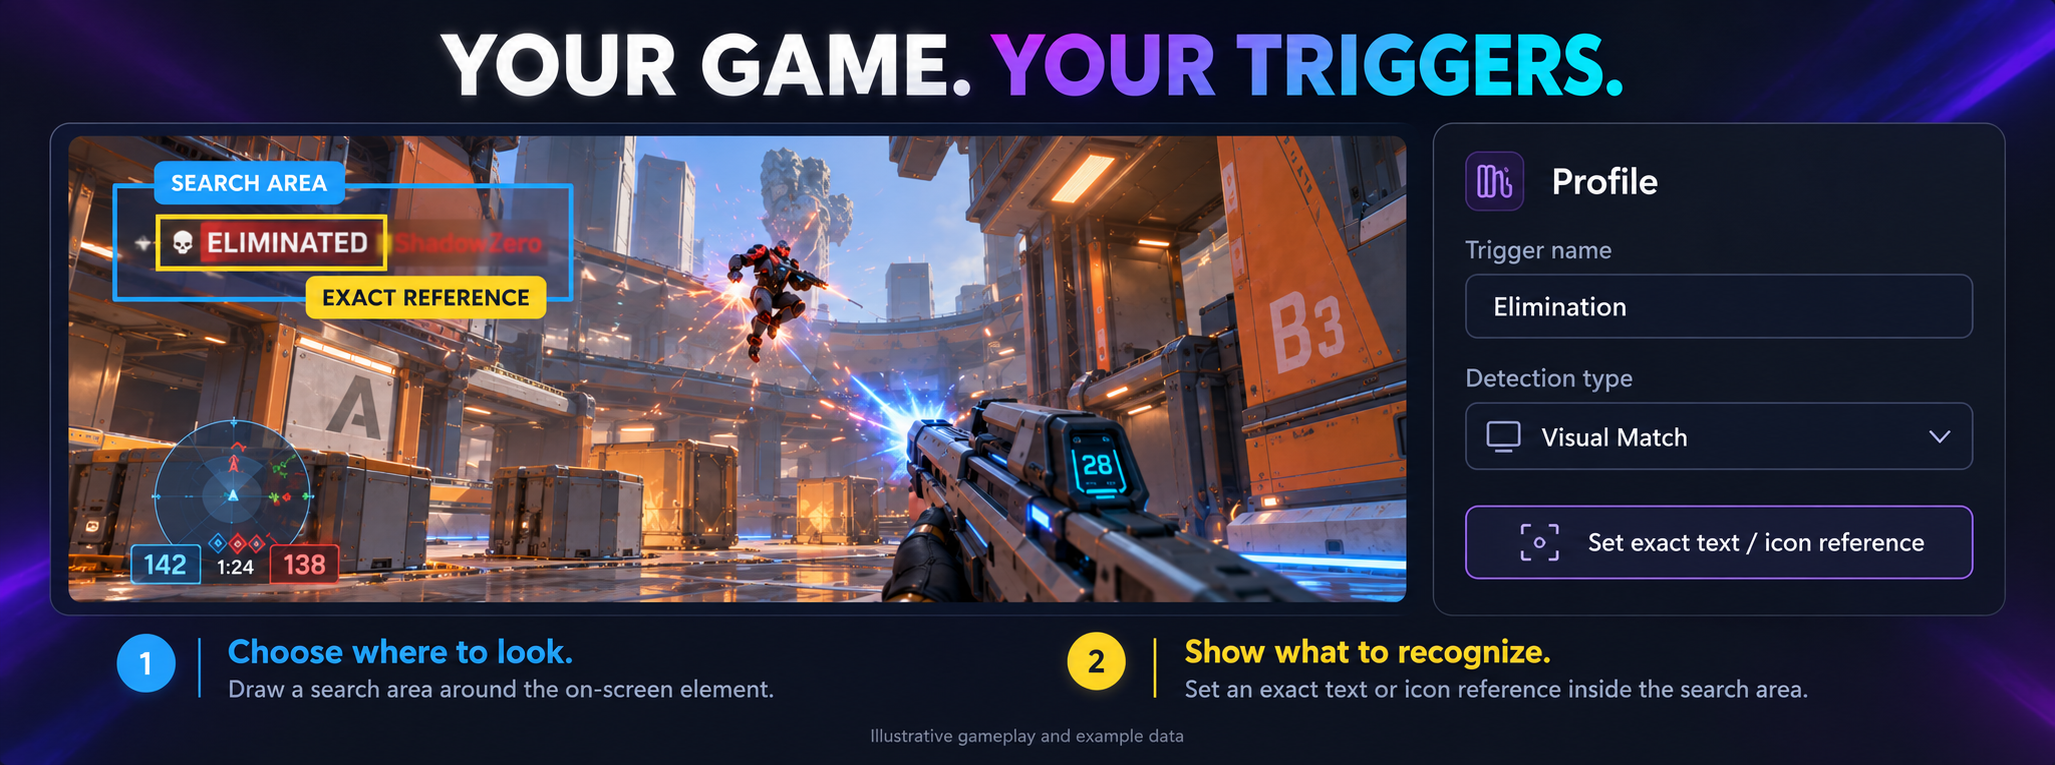
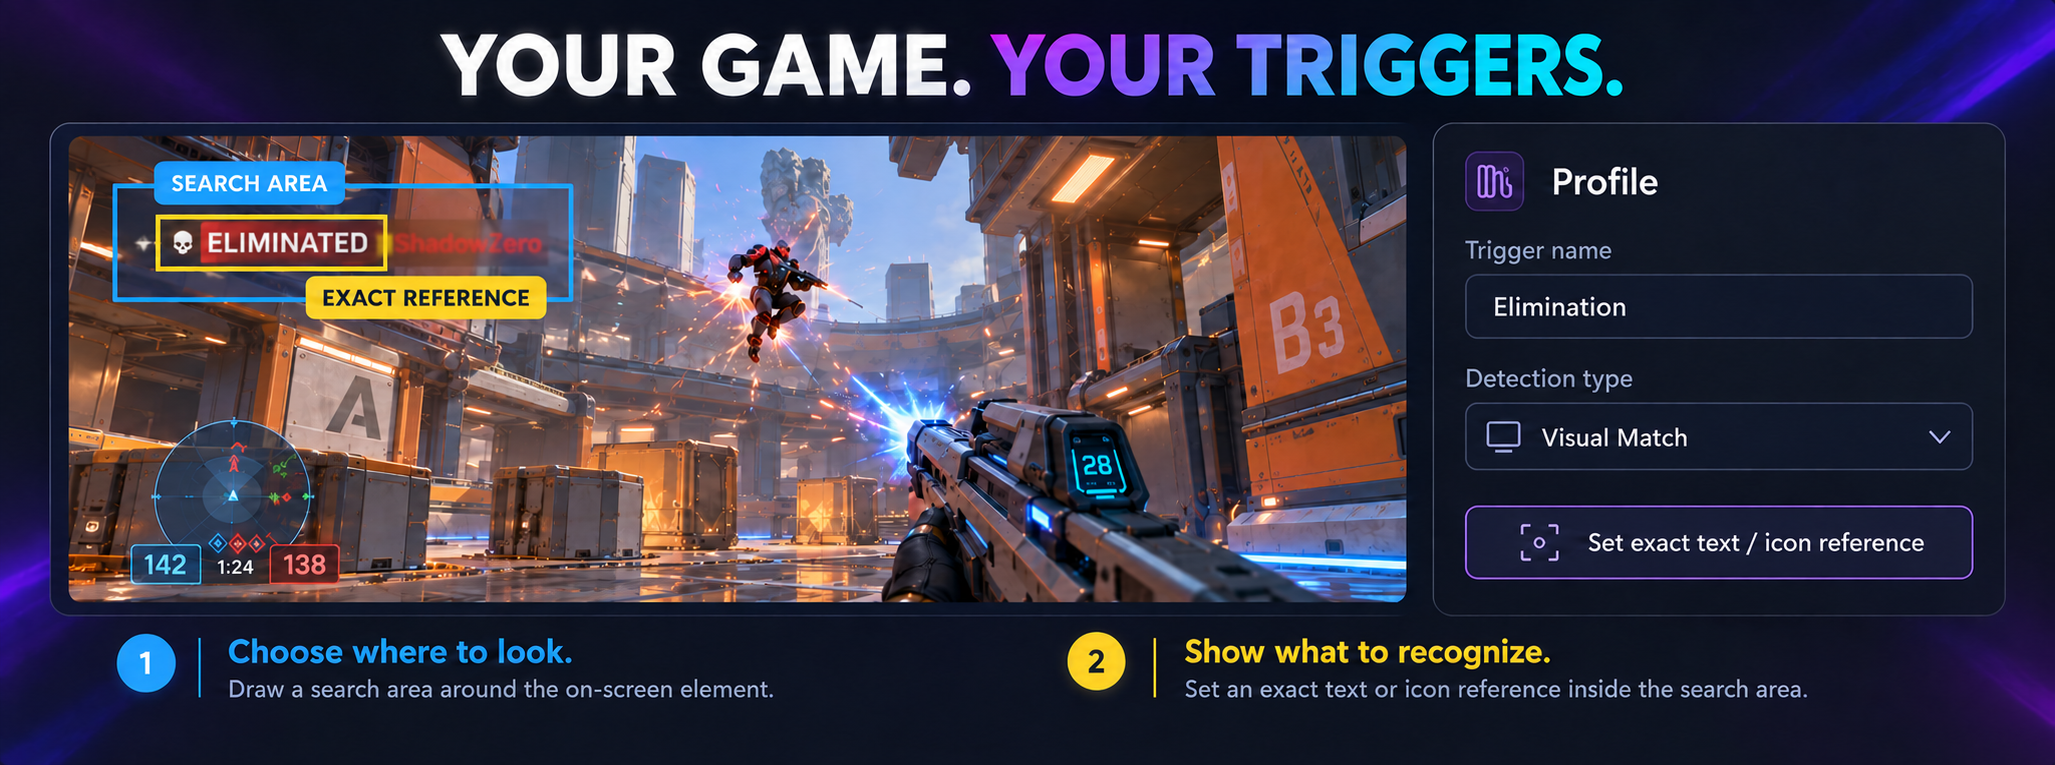
Remove presentation footnotes from README and images

diff --git a/README.md b/README.md
@@ -33,8 +33,6 @@ A two-hour session might contain a clutch, a comeback, a clean headshot or the o
 - ✂ **Your final cut** — keep or skip clips, adjust their ranges and export your picks.
 - 🔒 **Local footage** — recordings are processed on your PC, with no footage upload required.
 
-*Product illustrations use ClipForge's interface as a reference, with generated gameplay and example data.*
-
 ---
 
 ## Review the play. Keep the moment.
@@ -61,7 +59,7 @@ Keep it in the export, skip it, or adjust its range. **You choose the highlights
 
 ## Your game. Your definition of a highlight.
 
-<img src="docs/images/clipforge-trigger-detail.png" alt="Illustration of a blue HUD search area and a tight yellow reference around an example Elimination trigger" width="100%" />
+<img src="docs/images/clipforge-trigger-detail.png" alt="ClipForge profile setup with a blue HUD search area and a yellow reference around an Elimination trigger" width="100%" />
 
 **Choose where to look. Show what to recognize.** Pause on a HUD event, draw its search area and capture a tight reference around the text or icon you want to detect.
 
